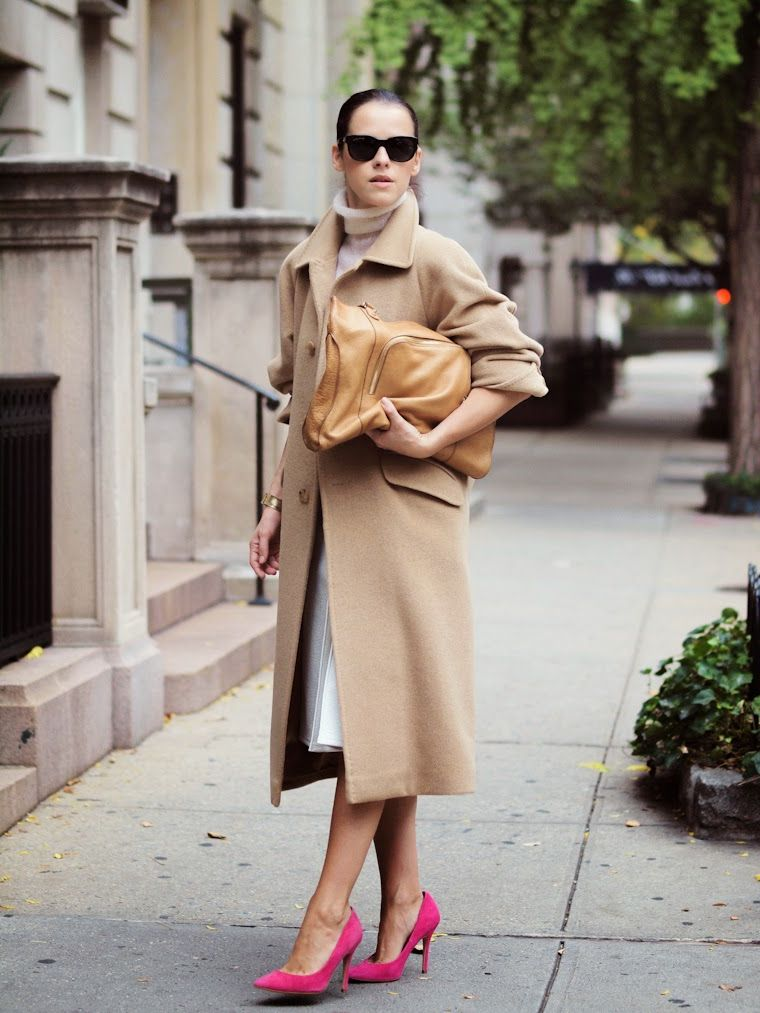
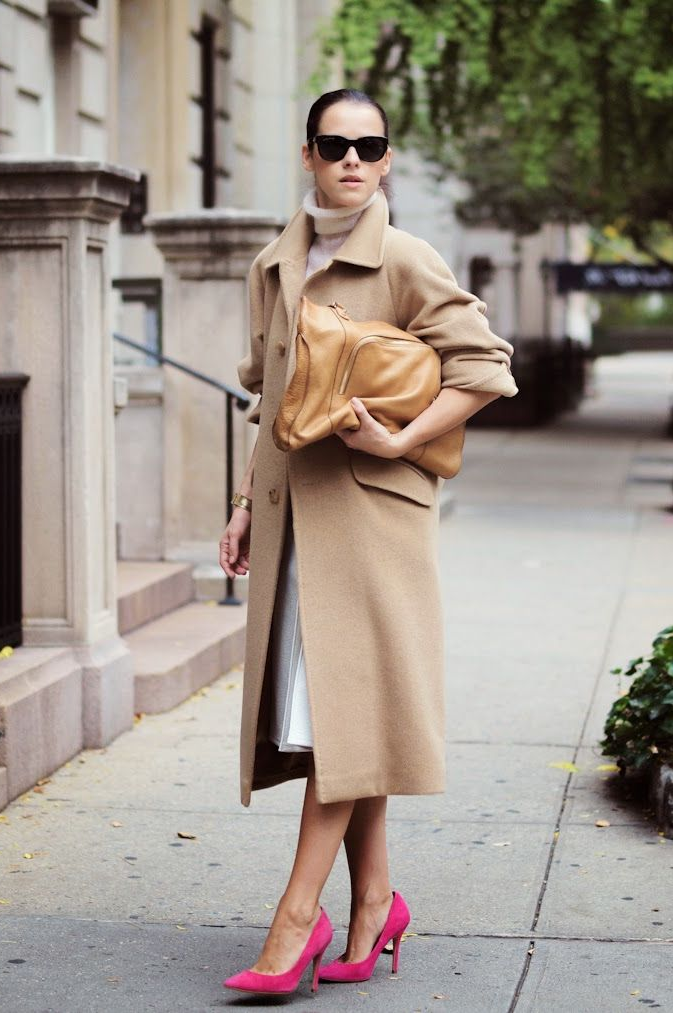
Worked on images in q5

diff --git a/static/quiz.js b/static/quiz.js
@@ -228,8 +228,8 @@ function outfit_grid(images){
 /************************question 5****************************/
 function img_grid(images){
     $.each(images, function(index,value){
-        let block = $('<div  class="col-2 justify-content-center">')
-        let img  = $('<img class="color-block height-150" src="'+value.image+'" alt="'+value.description+'">')
+        let block = $('<div  class="col-md-3 justify-content-center">')
+        let img  = $('<img class="color-block q5_img" src="'+value.image+'" alt="'+value.description+'">')
 
         block.append(img)
         $('#color-grid').append(block)

diff --git a/static/main.css b/static/main.css
@@ -173,3 +173,8 @@
   padding-left: 10%;
   padding-right: 10%;
 }
+
+.q5_img {
+  height: 370px;
+  width: auto;
+}

diff --git a/server.py b/server.py
@@ -108,7 +108,7 @@ lessons = [
         "text": "Never be afraid of color",
         "examples": [
             {
-                "description": "Rapper A$AP Rocky sports a pink Loewe tuxedo with white shirt and sneakers at the 2019 pre-Grammys gala.",
+                "description": "Rapper A$AP Rocky sports a daring pink Loewe tuxedo with a classic white shirt and sneakers at the 2019 pre-Grammys gala.",
                 "image": "/static/images/p5rocky.png",
             },
             {
@@ -116,7 +116,7 @@ lessons = [
                 "image": "/static/images/p5kanye.png",
             },
             {
-                "description": "Zendaya wears a yellow and red all-over-print Dolce & Gabbana ballgown at the 2017 Met Gala.",
+                "description": "Zendaya wears a red-yellow-orange (analogous colors!) all-over-print Dolce & Gabbana ballgown at the 2017 Met Gala.",
                 "image": "/static/images/p5zendaya.png",
             }
         ],
@@ -268,7 +268,7 @@ questions = [
             },
             {
                 "description": "white",
-                "image": "/static/images/q5white.png",
+                "image": "/static/images/q5white.jpeg",
             },
             {
                 "description": "pink",
